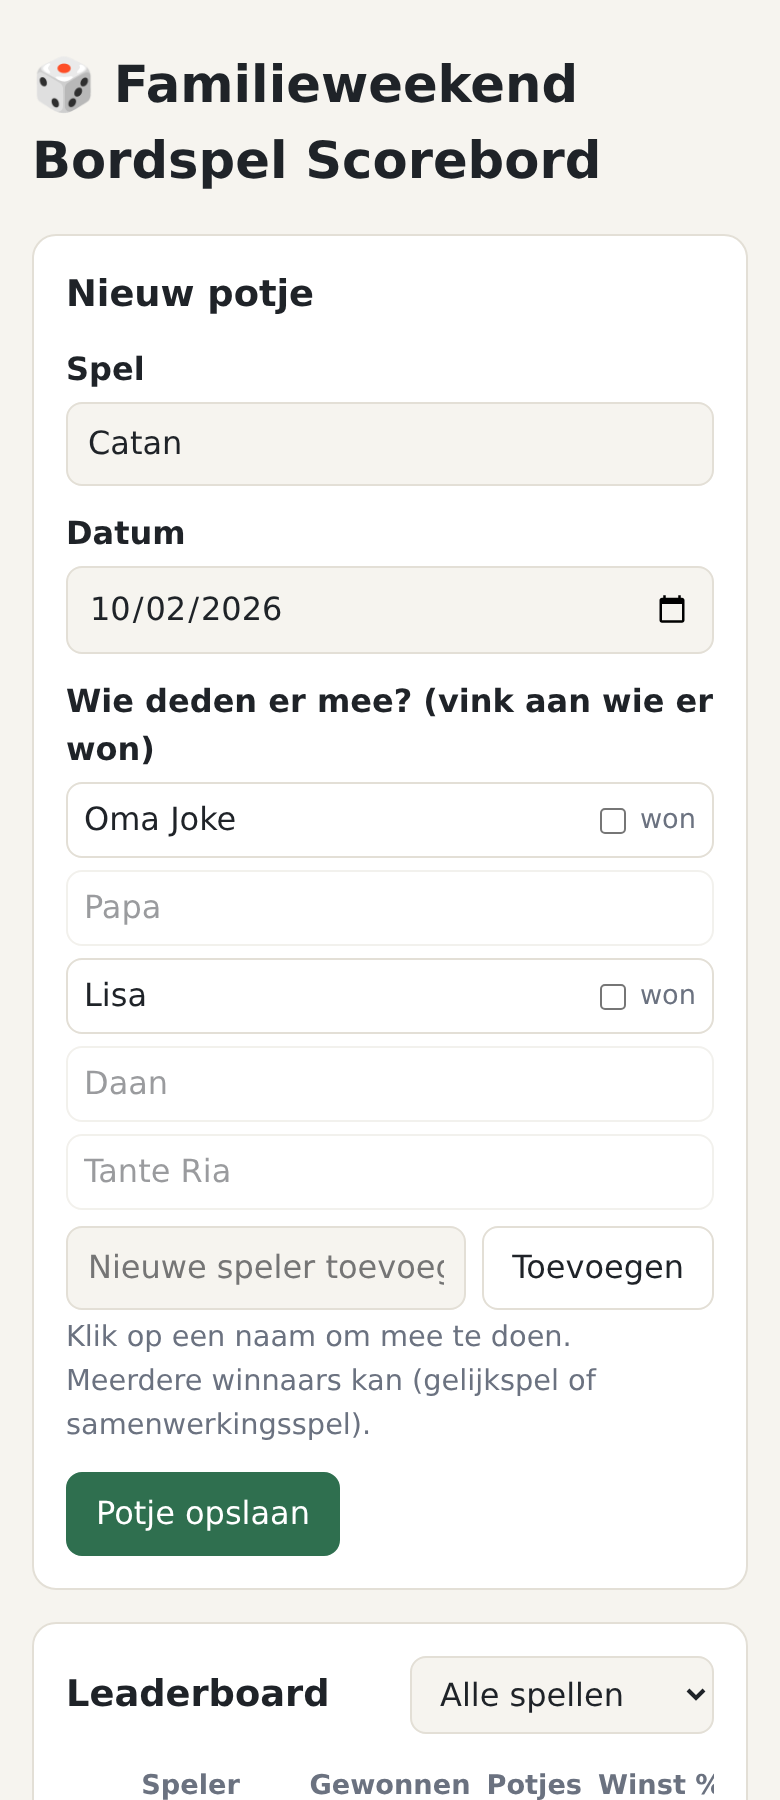
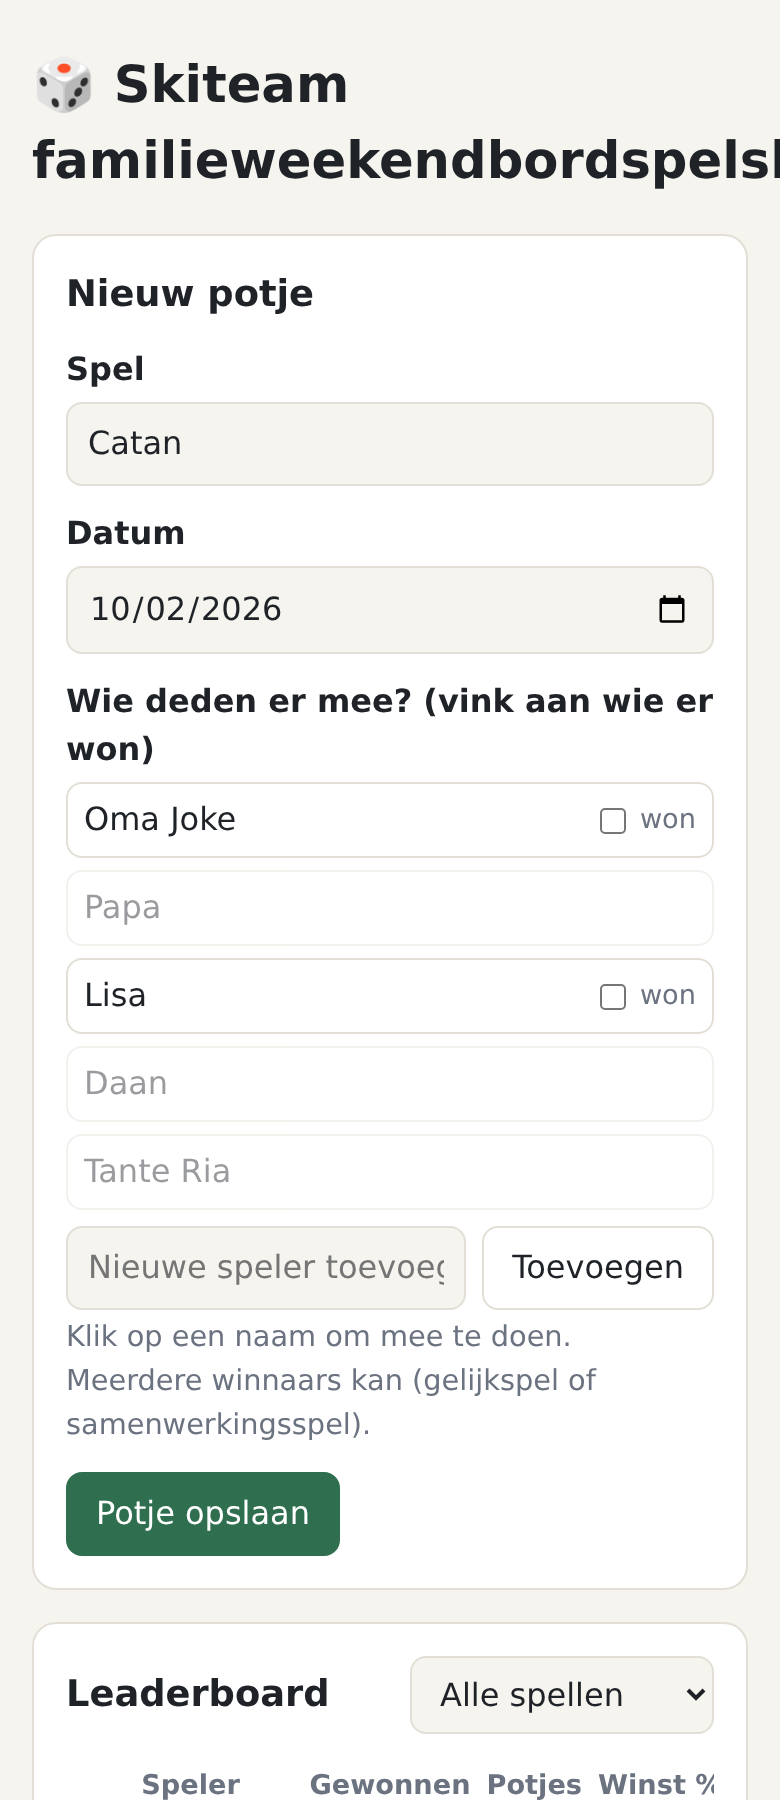
Rename site to Skiteam familieweekendbordspelshizzle
Claude-Session: https://claude.ai/code/session_01YRtZ7pE4hHpvheB5PBVZSi

Changed region(s): [[0.0615, 0.0311, 1.0, 0.1244]]

diff --git a/index.html b/index.html
@@ -3,7 +3,7 @@
 <head>
 <meta charset="utf-8">
 <meta name="viewport" content="width=device-width, initial-scale=1">
-<title>Bordspel Scorebord</title>
+<title>Skiteam familieweekendbordspelshizzle</title>
 <style>
   :root {
     --bg: #f6f4ef; --card: #ffffff; --text: #1f2328; --muted: #6b7280;
@@ -63,7 +63,7 @@
 </head>
 <body>
 <main>
-  <h1>🎲 Familieweekend Bordspel Scorebord</h1>
+  <h1>🎲 Skiteam familieweekendbordspelshizzle</h1>
 
   <section>
     <h2>Nieuw potje</h2>

diff --git a/README.md b/README.md
@@ -1,6 +1,6 @@
 <div align="center">
 
-# 🎲 Familieweekend Bordspel Scorebord
+# 🎲 Skiteam familieweekendbordspelshizzle
 
 **Wie is écht de bordspelkampioen van de familie? Eindelijk zwart op wit.**
 
